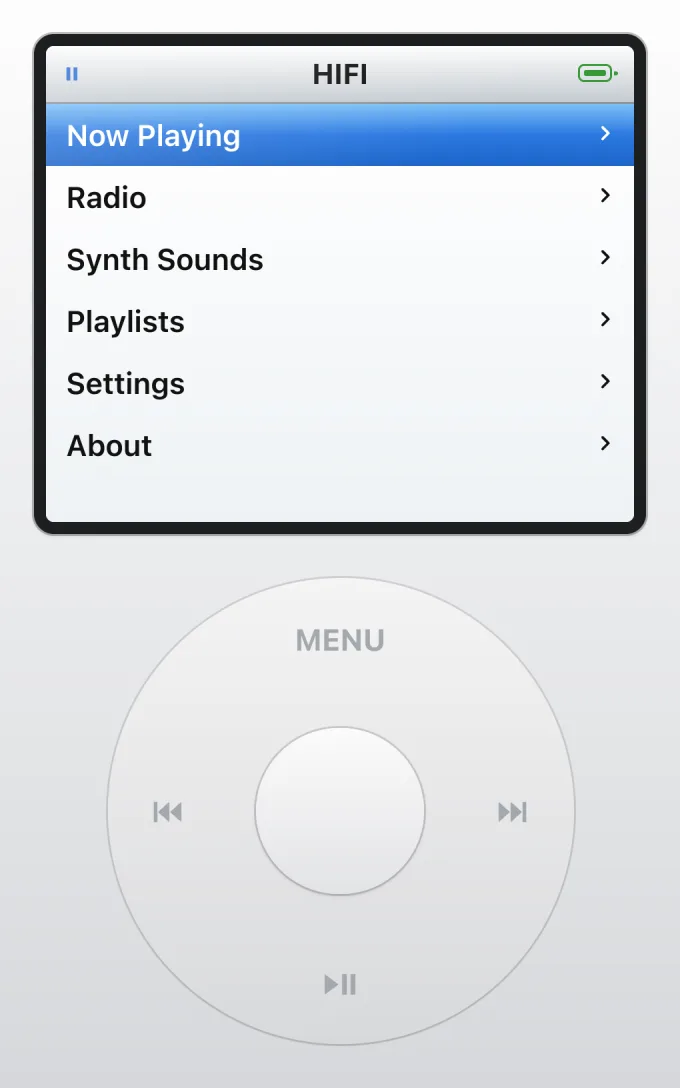
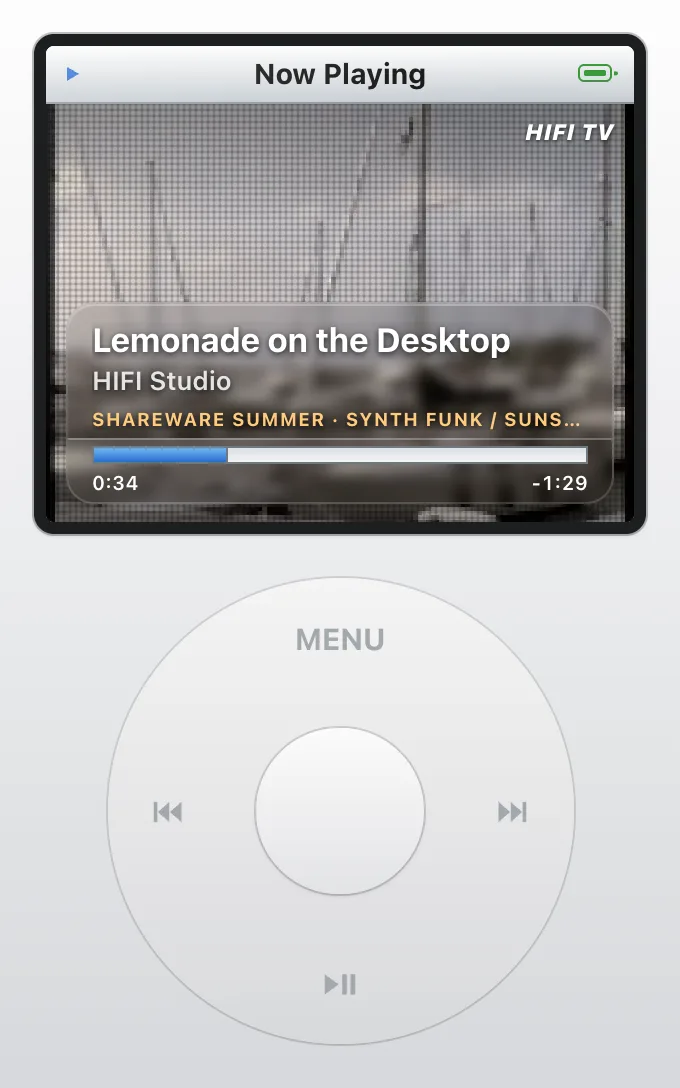
Landing player opens on Now Playing; play brings up Now Playing everywhere

diff --git a/landing.html b/landing.html
@@ -21,7 +21,7 @@
 <div class="hero-copy"><p class="eyebrow">Internet radio from Nate’s Software</p><h1>Little radio.<br>Very big mood.</h1><p class="lead">Spin the wheel, press play. It’s already on.</p><p class="sub">Live stations from Radio Paradise and SomaFM, synth stations made here, all on a white click wheel that fits in your browser.</p>
 <div class="actions"><a class="pill" href="/player">▶ Open the player</a><a class="pill ghost" href="/download" download>Download for Mac</a></div><p class="fine">Free to listen. No account. The Mac app runs on macOS 15 or later, Apple silicon and Intel.</p>
 <div class="counter" id="downloads" hidden><span class="odometer" aria-hidden="true"></span><span class="counter-label">Mac downloads</span></div></div>
-<div class="hero-device"><div class="device-frame"><img src="/shots/player.webp" width="340" height="544" alt="" fetchpriority="high"><iframe data-src="/player?compact=1" title="Try HIFI radio" allow="autoplay"></iframe></div><p class="try"><span class="dot" aria-hidden="true"></span>The real player. Go ahead, spin it.</p></div>
+<div class="hero-device"><div class="device-frame"><img src="/shots/player.webp" width="340" height="544" alt="" fetchpriority="high"><iframe data-src="/player?compact=1&amp;page=nowPlaying" title="Try HIFI radio" allow="autoplay"></iframe></div><p class="try"><span class="dot" aria-hidden="true"></span>The real player. Go ahead, spin it.</p></div>
 </section>
 
 <section class="phones" id="iphone"><div class="section-head"><h2>The same iPod,<br>in your pocket.</h2><p>HIFI on iPhone plays in the background, shows up on the lock screen, and hearts songs straight into your Spotify. It’s on its way to the App Store.</p></div>

diff --git a/ios/Sources/IPod.swift b/ios/Sources/IPod.swift
@@ -121,7 +121,7 @@ struct IPodView: View {
         .onKeyPress(.return) { key(.center) { select() } }
         .onKeyPress(.escape) { key(.menu) { menu() } }
         .onKeyPress(.delete) { key(.menu) { menu() } }
-        .onKeyPress(.space) { key(.play) { radio.toggle() } }
+        .onKeyPress(.space) { key(.play) { playPause() } }
         .task(id: page) {
             if page == .playlists { await spotify.refreshPlaylists() }
         }
@@ -404,7 +404,7 @@ struct IPodView: View {
 
     private var wheelHandler: ClickWheel.Handler {
         .init(touch: touched, rotate: rotate, menu: menu, previous: { radio.skip(-1) }, next: { radio.skip(1) },
-              play: { radio.toggle() }, select: select)
+              play: { playPause() }, select: select)
     }
 
     private func rotate(_ steps: Int) {
@@ -477,6 +477,13 @@ struct IPodView: View {
         case .about:
             menu()
         }
+    }
+
+    // Play brings up Now Playing, so the station's TV comes on with the music.
+    private func playPause() {
+        let starting = !radio.isPlaying
+        radio.toggle()
+        if starting, page != .nowPlaying { push(.nowPlaying) }
     }
 
     private func menu() {

diff --git a/landing.js b/landing.js
@@ -8,10 +8,8 @@ window.addEventListener('message',event=>{
   const data=event.data;
   if(data?.type==='hifi:height' && Number.isFinite(data.height) && data.height>0) frame.style.height=Math.max(400,Math.min(760,data.height))+'px';
 });
-// The live player comes in after the page has loaded; until then the hero shows a still of it.
-const start = () => { player.src = player.dataset.src; };
-const idle = () => (window.requestIdleCallback || setTimeout)(start, {timeout: 1500});
-if (document.readyState === 'complete') idle(); else addEventListener('load', idle, {once: true});
+// The live player starts loading straight away; until it's ready the hero shows a still of it.
+player.src = player.dataset.src;
 
 // About Nate's Software; #about opens it directly.
 const about = document.getElementById('about');

diff --git a/app.js b/app.js
@@ -102,7 +102,12 @@ function tune(next) {
   savePrefs();
   start();
 }
-const toggle = () => radio.playing ? stop() : start();
+// Play brings up Now Playing, so the station's TV comes on with the music.
+function toggle() {
+  if (radio.playing) return stop();
+  start();
+  if (page() !== 'nowPlaying') push('nowPlaying');
+}
 
 function notice(text) {
   radio.problem = text;
